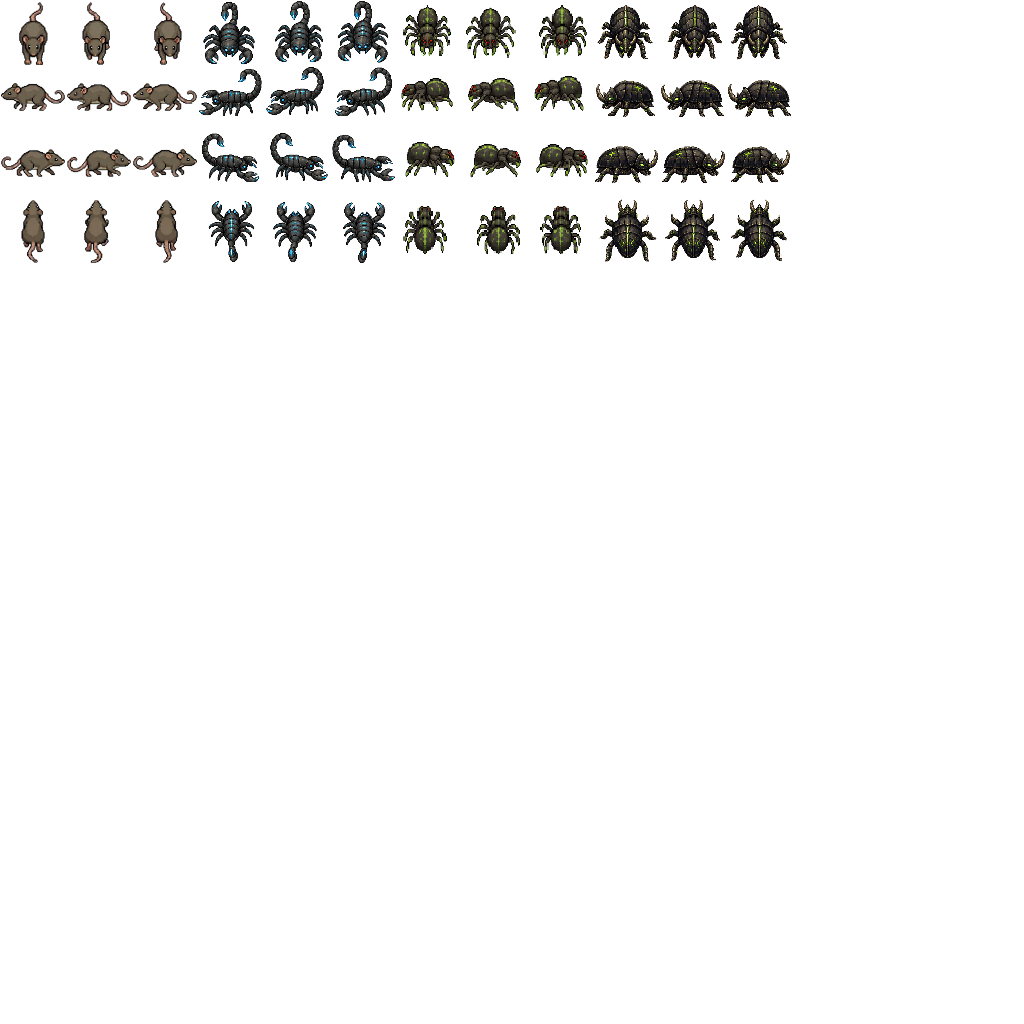
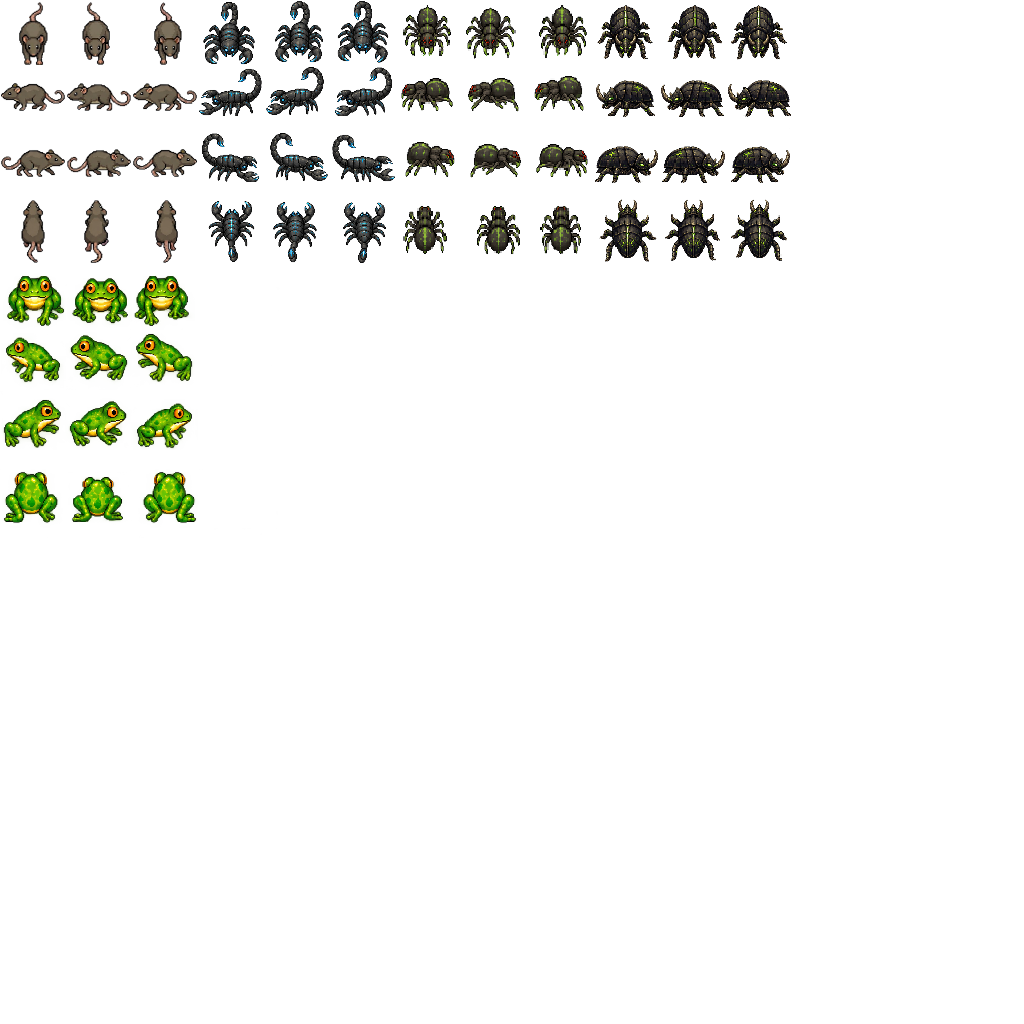
0.34494

Changed region(s): [[0.0, 0.25, 0.1875, 0.5312]]

diff --git a/src/data/monstersDatabase.js b/src/data/monstersDatabase.js
@@ -87,4 +87,33 @@ export const monstersDatabase = {
       },
     ],
   },
+  frog: {
+    monsterId: "frog",
+    name: "Frog",
+    desc: "A small village frog.",
+    suffix: "a",
+    maxHp: 15,
+    experience: 20,
+    moveCooldown: 300,
+    pathRefreshCooldown: 800,
+    atlas: "monsters",
+    atlasCol: 0,
+    atlasRow: 4,
+    drawWidth: SPRITE_SIZE,
+    drawHeight: SPRITE_SIZE,
+    drawOffsetX: 0,
+    drawOffsetY: 0,
+    animationFrames: 3,
+    spriteSize: SPRITE_SIZE,
+    corpseItemId: null,
+    bloodEffectId: "greenBlood",
+    combat: {
+      attack: 2,
+      armor: 0,
+      defense: 1,
+      blockChance: 1,
+      hitChance: 60,
+    },
+    loot: [],
+  },
 };

diff --git a/src/localization/gameLocalization.js b/src/localization/gameLocalization.js
@@ -574,6 +574,7 @@ export const GAME_CONTENT_TEXT = {
     monsters: {
       rat: { name: "Rat", desc: "Un petit rat feroce.", suffix: "un" },
       spider: { name: "Araignee", desc: "Une araignee venimeuse.", suffix: "une" },
+      frog: { name: "Grenouille", desc: "Une petite grenouille du village.", suffix: "une" },
     },
     classes: {
       noClass: { name: "Sans classe" },
